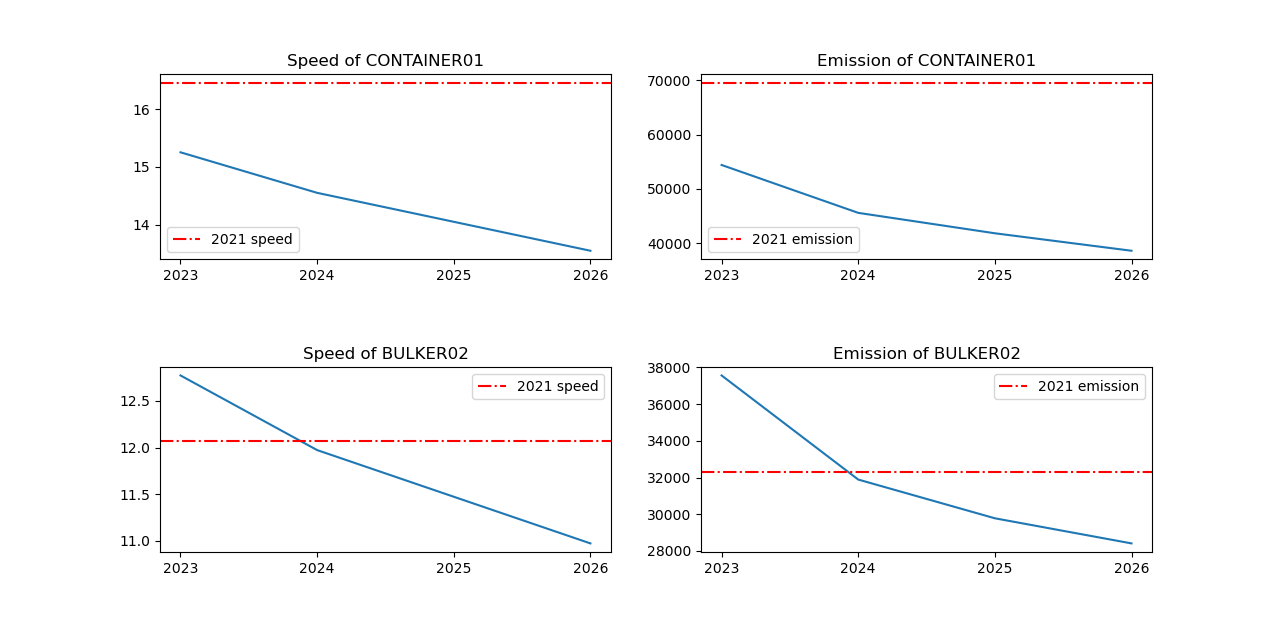
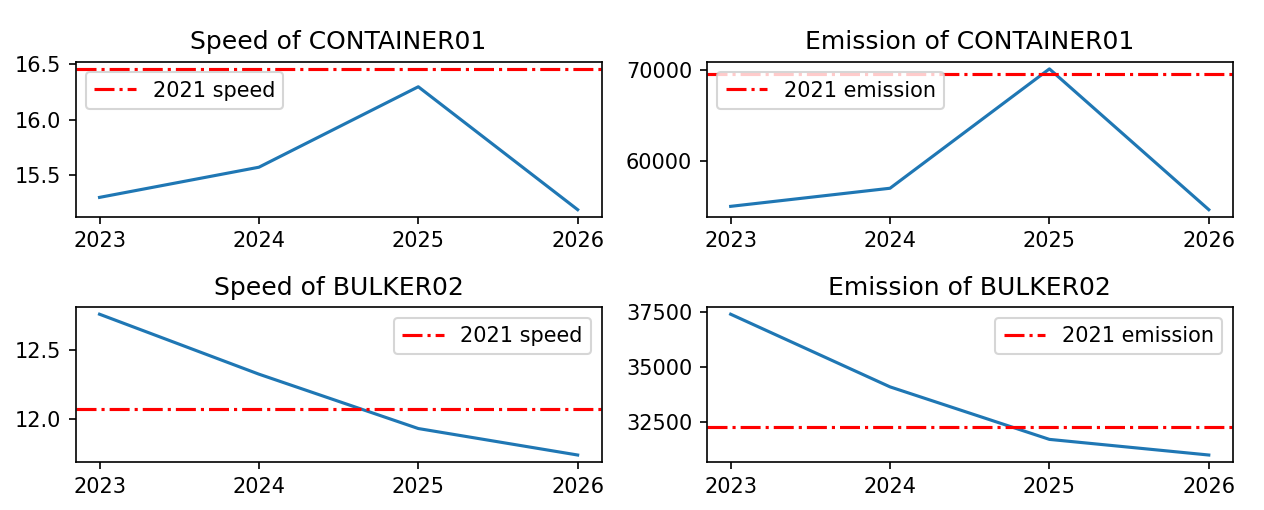
final report v2, predicted clarkson

diff --git a/report/main.tex b/report/main.tex
@@ -391,7 +391,7 @@ So, according to equation 1, we have:
 
 In addition, in order to calculate the optimal speed for 2023-2024, we need to estimate the fuel and freight prices for this period.
 In this model, \textbf{we use a range of \href{https://www.cmegroup.com/markets/energy/refined-products/singapore-380cst-fuel-oil-platts-swap-futures.html}{[fuel futures prices]} and average them on an annual basis}.
-Beyond that, \textbf{for calculations up to step 3, we assume that freight rates remain constant in 2023-2026}.\\
+Beyond that, \textbf{we use the freight rate index forecasted by the bank's in-house economist to forecast future freight rates}.\\
 
 
 In the absence of CII restrictions, if we want to calculate the 2023-2026 optimal speed combination, we only need to calculate the optimal velocity for each year separately.
@@ -1158,7 +1158,6 @@ While progress has been made in the models presented in this paper, there are st
 	In figure \ref{fig:voyage_dist}, the green line is the predicted value from this model, the orange line is the value obtained from the direct linear regression, and the x marker is the true sailing time.
 	By comparing this with the speed-sailing times of the vessels provided by the bank for different years, the equation 11 used in this report still has an error of over 10\%, although some correction has been made. Further machine learning methods need to be considered to fit a true function.
 	\item \textbf{A more accurate relationship between speed and fuel consumption:} So far we have only made a general distinction between the two cases below and above 13 knots. The real relationship is much more complex.
-	\item \textbf{Forecasts of future freight prices: } With the help of the \textit{IFRS 9: Maritime asset financing LGD} model, it is possible to forecast freight prices for future markets, thus enabling better model accuracy.
 \end{enumerate}
 
 Addressing these areas of improvement will enhance the accuracy and reliability of the models used in this study.

diff --git a/estimation/freight_dl.py b/estimation/freight_dl.py
@@ -60,7 +60,7 @@ class CNN(nn.Module):
         self.n_feature = n_feature
         self.conv1 = nn.Conv1d(in_channels=1, out_channels=n_feature, kernel_size=K, padding=2)
         # self.conv2 = nn.Conv1d(n_feature, n_feature, kernel_size=K, padding=2)
-        self.fc1 = nn.Linear(self.n_feature*12, output_size)
+        self.fc1 = nn.Linear(self.n_feature * 12, output_size)
         self.dropout = nn.Dropout(p=0.5)
         # self.batchnorm = nn.BatchNorm1d(output_size, momentum=0.1)
 
@@ -76,7 +76,7 @@ class CNN(nn.Module):
         x = F.relu(x)
         # x = F.max_pool1d(x, kernel_size=4)  # [batch, 32, 4]
         print("x.shape", x.shape)
-        x = x.reshape(-1, self.n_feature*12)
+        x = x.reshape(-1, self.n_feature * 12)
         # x = self.dropout(x)
         x = self.fc1(x)
         x = self.dropout(x)

diff --git a/sample/__main__.py b/sample/__main__.py
@@ -28,7 +28,7 @@ rt_container_0 = route.Route(
     name="Shanghai-Rotterdam",
     route_type="CONTAINER SHIPS",
     distance=11999.0,
-    freight_rates=np.array([1000.0, 1000.0, 1000.0, 1000.0]),
+    freight_rates=np.array([1000.0, 1000.0 * 16.9 / 14, 1000.0 * 16.9 / 11.1, 1000.0 * 16.9 / 12.4]),
     utilization_rate=0.95,
     fuel_ratio=0.5,
 )
@@ -37,7 +37,7 @@ rt_bulker_0 = route.Route(
     name="Houston-Shanghai",
     route_type="BULKERS",
     distance=12324.0,
-    freight_rates=np.array([35.0, 35.0, 35.0, 35.0]),
+    freight_rates=np.array([35.0, 35.0 * 15.3 / 14.6, 35.0 * 16.1 / 14.6, 35.0 * 16.5 / 14.6]),
     utilization_rate=0.9,
     fuel_ratio=0.5,
 )
